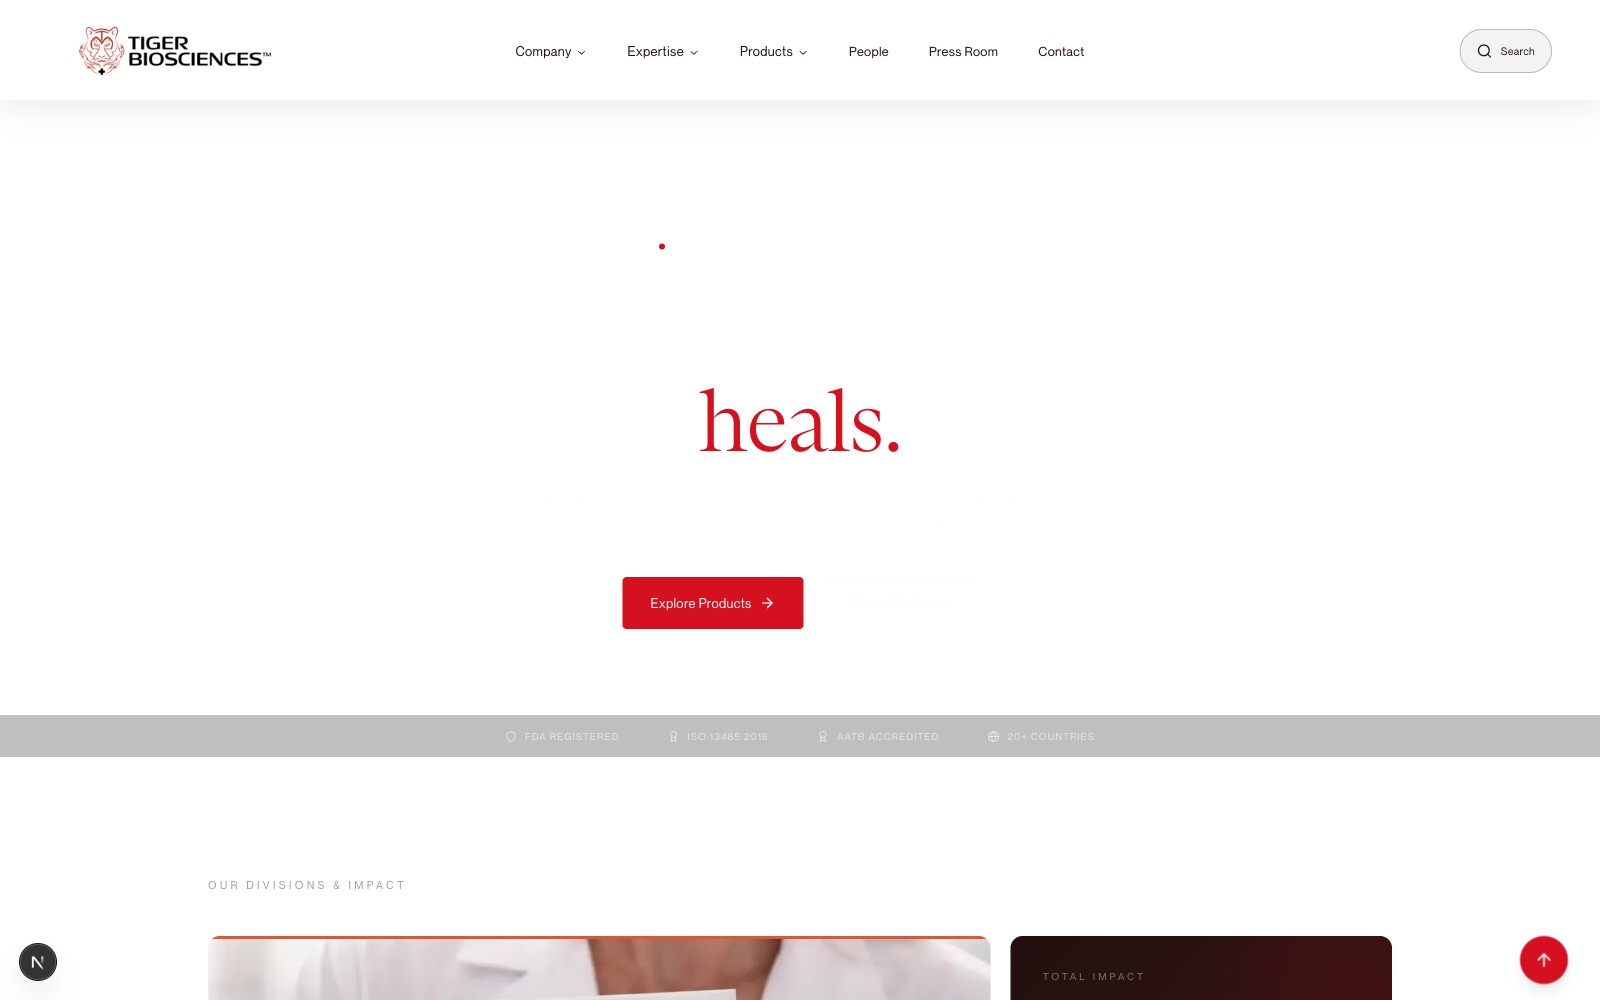
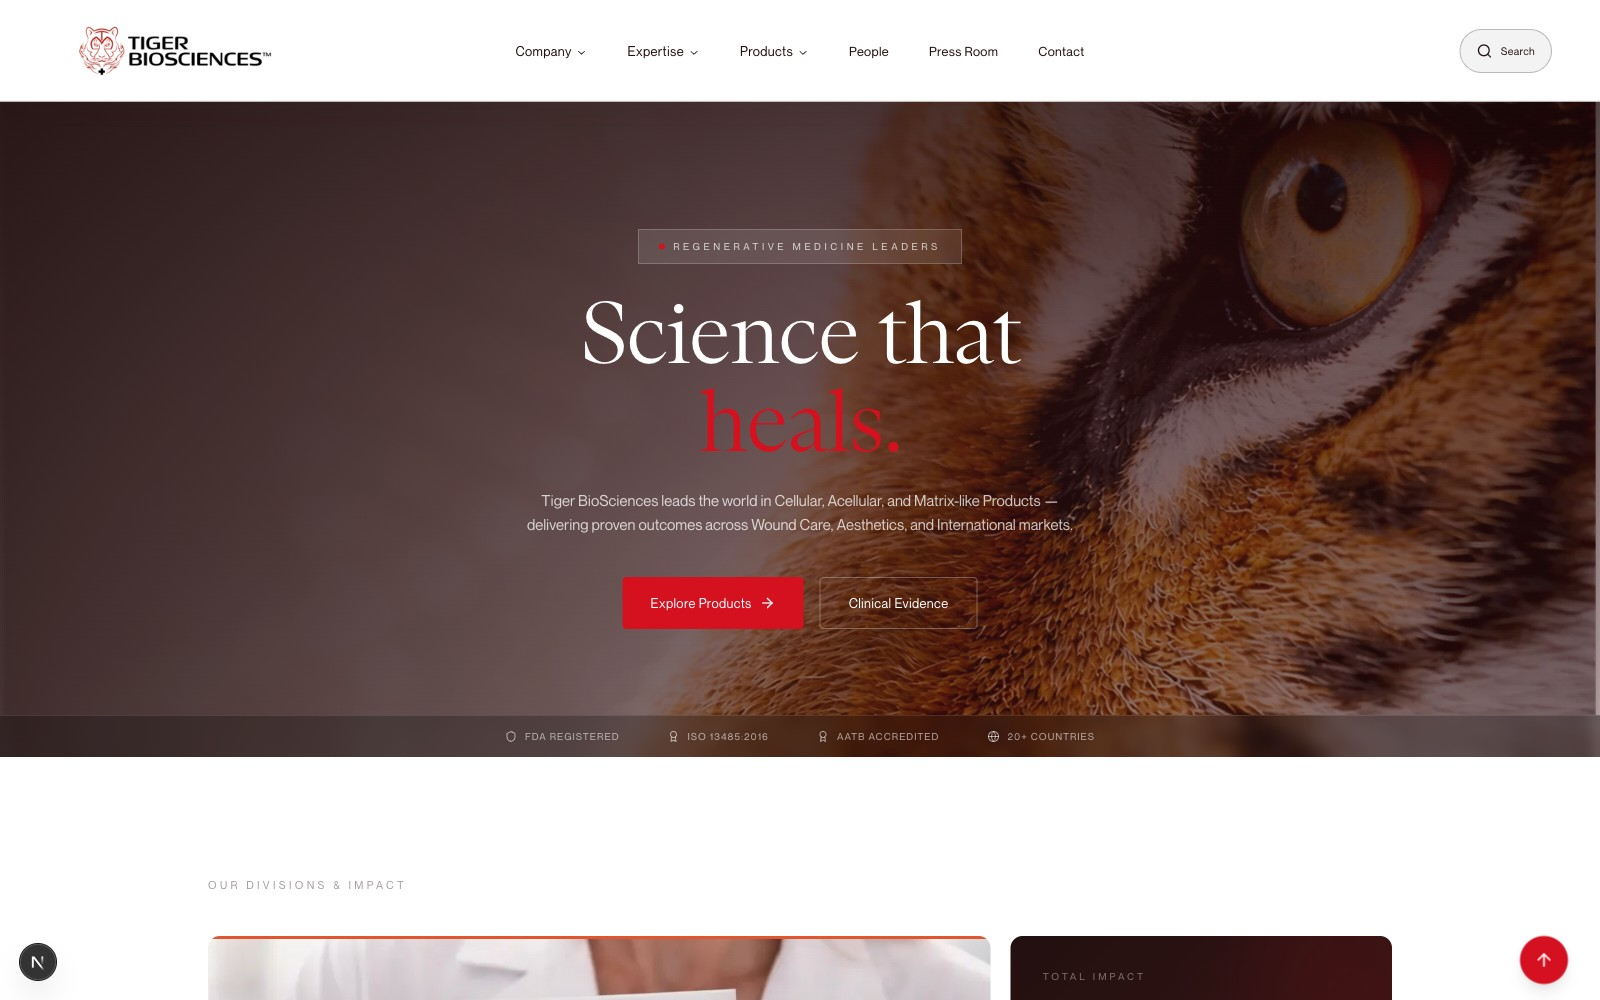
polish: elevate every variant's hero presence
V1 Cinematic — added tiger poster fallback + richer gradient vignette so the hero is cinematic even without video playback.
V3 Typography — tiger emerges from the right edge under a fade mask, anchoring the massive typography with a second focal point. Fixed -z-10 stacking bug with isolate.
V4 Product Grid — bumped watermark opacity and repositioned the crop so the tiger eye reads through the composition instead of vanishing.
V5 Dark Premium — trust bar is now scrollable and readable on mobile; video has a poster fallback for the no-autoplay case.
V6 Editorial — masthead tightened for mobile (wraps cleanly at 375px, no overflow).
V8 Storytelling — added "Chapter 01 · Six-Part Story" indicator and a faint tiger watermark so the sparse hero has atmosphere and structure.
V9 Hero Carousel — trust bar scrolls horizontally on mobile with all four badges visible.
V10 Bento Grid — darkened overlays so "Science that heals." reads crisp against the tiger; fixed -z-10 stacking with isolate.

Regenerated thumbnails for V1, V3, V4, V8, V10 to reflect the new hero treatments.

diff --git a/app/home-variant-1/page.tsx b/app/home-variant-1/page.tsx
@@ -76,7 +76,17 @@ export default function HomeVariant1() {
       {/* ═══════════════════════════════════════════════════════════
           HERO — Full-viewport cinematic video
       ═══════════════════════════════════════════════════════════ */}
-      <section className="relative min-h-[100dvh] w-full overflow-hidden flex items-center justify-center pt-[101px]">
+      <section className="relative min-h-[100dvh] w-full overflow-hidden flex items-center justify-center pt-[101px] bg-[#1a0b0b]">
+
+        {/* Poster image — plays when video is loading or blocked */}
+        <Image
+          src="/images/tiger-hero.png"
+          alt=""
+          fill
+          priority
+          className="absolute inset-0 w-full h-full object-cover"
+          style={{ objectPosition: "75% 35%" }}
+        />
 
         {/* Video background */}
         <video
@@ -84,6 +94,7 @@ export default function HomeVariant1() {
           loop
           muted
           playsInline
+          poster="/images/tiger-hero.png"
           className="absolute inset-0 w-full h-full object-cover"
           style={{ objectPosition: "center 20%" }}
         >
@@ -94,7 +105,7 @@ export default function HomeVariant1() {
         </video>
 
         {/* Gradient overlays — layered for cinematic depth */}
-        <div className="absolute inset-0 bg-gradient-to-b from-black/40 via-black/10 to-transparent pointer-events-none" />
+        <div className="absolute inset-0 bg-gradient-to-b from-black/55 via-black/25 to-black/40 pointer-events-none" />
         <div
           className="absolute bottom-0 left-0 right-0 h-[55%] pointer-events-none"
           style={{
@@ -102,7 +113,13 @@ export default function HomeVariant1() {
               "linear-gradient(to top, #ffffff 0%, rgba(239,237,234,0.9) 20%, rgba(239,237,234,0.5) 55%, transparent 100%)",
           }}
         />
-        <div className="absolute inset-0 bg-[#231010]/20 pointer-events-none" />
+        {/* Subtle vignette for cinematic focus */}
+        <div
+          className="absolute inset-0 pointer-events-none"
+          style={{
+            background: "radial-gradient(ellipse at center, transparent 30%, rgba(0,0,0,0.35) 100%)",
+          }}
+        />
 
         {/* Centered headline — staggered entrance */}
         <div className="relative z-10 text-center px-6 max-w-5xl mx-auto">

diff --git a/app/home-variant-10/page.tsx b/app/home-variant-10/page.tsx
@@ -59,7 +59,7 @@ export default function HomeVariant10() {
       {/* ═══════════════════════════════════════════════════════════════
           HERO — Short 60vh with centered text + background image
       ═══════════════════════════════════════════════════════════════ */}
-      <section className="relative flex items-center justify-center overflow-hidden min-h-[500px] md:min-h-[60vh] pt-[101px]">
+      <section className="relative isolate flex items-center justify-center overflow-hidden min-h-[500px] md:min-h-[60vh] pt-[101px]">
         {/* Subtle background image */}
         <div className="absolute inset-0 -z-10">
           <Image
@@ -67,11 +67,12 @@ export default function HomeVariant10() {
             alt="Tiger BioSciences hero"
             fill
             priority
-            className="object-cover object-center opacity-90"
+            className="object-cover object-[72%_30%]"
           />
-          {/* Layered overlays for depth */}
-          <div className="absolute inset-0 bg-gradient-to-b from-[#231010]/65 via-[#231010]/50 to-[#ffffff]/20" />
-          <div className="absolute inset-0 bg-gradient-to-r from-[#D5101F]/10 via-transparent to-transparent" />
+          {/* Layered overlays for depth — stronger top gradient for legibility */}
+          <div className="absolute inset-0 bg-gradient-to-b from-[#0e0606]/80 via-[#231010]/60 to-[#231010]/35" />
+          <div className="absolute inset-0 bg-gradient-to-r from-[#0e0606]/70 via-[#231010]/30 to-transparent" />
+          <div className="absolute inset-0 bg-[#D5101F]/[0.05]" />
         </div>
 
         <div className="relative z-10 mx-auto max-w-[896px] px-6 md:px-12 py-16 md:py-32 text-center">

diff --git a/app/home-variant-8/page.tsx b/app/home-variant-8/page.tsx
@@ -39,7 +39,24 @@ const fadeIn = {
 
 function HeroSection() {
   return (
-    <section className="relative min-h-[88vh] flex flex-col items-center justify-center text-center px-6 pt-[101px] bg-[#ffffff] overflow-hidden">
+    <section className="relative isolate min-h-[88vh] flex flex-col items-center justify-center text-center px-6 pt-[101px] bg-[#ffffff] overflow-hidden">
+      {/* Background watermark image — upper-right, subtle */}
+      <div className="pointer-events-none absolute inset-0 -z-10">
+        <Image
+          src="/images/tiger-hero-original.png"
+          alt=""
+          fill
+          className="object-cover object-[80%_20%] opacity-[0.10]"
+        />
+        <div
+          className="absolute inset-0"
+          style={{
+            background:
+              "radial-gradient(ellipse 70% 60% at 50% 55%, #ffffff 30%, rgba(255,255,255,0.8) 70%, rgba(255,255,255,0.3) 100%)",
+          }}
+        />
+      </div>
+
       {/* Background texture gradient */}
       <div
         className="pointer-events-none absolute inset-0"
@@ -56,6 +73,18 @@ function HeroSection() {
         transition={{ duration: 1.1, delay: 0.2, ease: [0.22, 1, 0.36, 1] }}
         className="absolute top-0 left-0 right-0 h-px bg-gradient-to-r from-transparent via-[#D5101F]/30 to-transparent origin-left"
       />
+
+      {/* Chapter indicator */}
+      <motion.div
+        initial={{ opacity: 0, y: -8 }}
+        animate={{ opacity: 1, y: 0 }}
+        transition={{ duration: 0.7, delay: 0.15 }}
+        className="flex items-center gap-3 mb-8"
+      >
+        <span className="text-[10px] uppercase tracking-[3px] text-[#D5101F] font-medium">Chapter 01</span>
+        <span className="w-8 h-[1px] bg-[#231010]/20" />
+        <span className="text-[10px] uppercase tracking-[3px] text-[#231010]/35">Six-Part Story</span>
+      </motion.div>
 
       <motion.span
         variants={fadeUp}

diff --git a/app/home-variant-5/page.tsx b/app/home-variant-5/page.tsx
@@ -100,12 +100,12 @@ export default function HomeVariant5() {
         transition={{ duration: 0.5, delay: 0.2 }}
         className="relative z-10 bg-[#231010]/80 backdrop-blur-[20px] border-b border-[#ffffff]/[0.06]"
       >
-        <div className="container mx-auto max-w-7xl px-6 py-2.5 flex items-center justify-center md:justify-between gap-6 flex-nowrap overflow-x-auto scrollbar-none md:flex-wrap">
+        <div className="container mx-auto max-w-7xl px-6 py-2.5 flex items-center gap-6 md:gap-8 overflow-x-auto scrollbar-none md:justify-center md:flex-wrap">
           {trustBadges.map((b) => {
             const Icon = b.icon;
             return (
-              <div key={b.label} className="flex items-center gap-2 text-[11px] text-[#ffffff]/40 font-light tracking-[0.3px]">
-                <Icon className="size-3.5 text-[#D5101F]/70" />
+              <div key={b.label} className="flex items-center gap-2 text-[11px] text-[#ffffff]/55 font-light tracking-[0.3px] whitespace-nowrap shrink-0">
+                <Icon className="size-3.5 text-[#D5101F]/80 shrink-0" />
                 {b.label}
               </div>
             );
@@ -118,12 +118,21 @@ export default function HomeVariant5() {
 
         {/* Video background */}
         <div className="absolute inset-0 -z-10">
+          {/* Poster fallback — shows if video blocks or loads slowly */}
+          <Image
+            src="/images/tiger-hero.png"
+            alt=""
+            fill
+            priority
+            className="object-cover object-[70%_40%]"
+          />
           <video
             autoPlay
             loop
             muted
             playsInline
             preload="auto"
+            poster="/images/tiger-hero.png"
             className="absolute inset-0 h-full w-full object-cover"
           >
             <source

diff --git a/app/home-variant-3/page.tsx b/app/home-variant-3/page.tsx
@@ -200,15 +200,29 @@ export default function HomeVariant3() {
       ═══════════════════════════════════════════════════════════ */}
       <section
         ref={heroRef}
-        className="relative min-h-[100dvh] flex flex-col justify-center px-6 md:px-16 xl:px-24 pt-[calc(101px+2rem)] md:pt-[calc(101px+4rem)] pb-24"
+        className="relative isolate min-h-[100dvh] flex flex-col justify-center px-6 md:px-16 xl:px-24 pt-[calc(101px+2rem)] md:pt-[calc(101px+4rem)] pb-24"
       >
-        {/* Subtle background image */}
-        <div className="absolute inset-0 -z-10 opacity-[0.04]">
+        {/* Subtle background image — reveal tiger on right third */}
+        <div className="absolute inset-0 -z-10">
           <Image
             src="/images/tiger-hero-original.png"
             alt=""
             fill
-            className="object-cover object-center"
+            className="object-cover object-[72%_30%]"
+          />
+          {/* Gradient mask — solid white on left two-thirds, tiger visible on right */}
+          <div
+            className="absolute inset-0"
+            style={{
+              background:
+                "linear-gradient(to right, #ffffff 0%, #ffffff 48%, rgba(255,255,255,0.85) 62%, rgba(255,255,255,0.45) 78%, rgba(255,255,255,0.2) 100%)",
+            }}
+          />
+          <div
+            className="absolute inset-0"
+            style={{
+              background: "linear-gradient(to top, #ffffff 5%, transparent 35%, transparent 75%, rgba(255,255,255,0.4) 100%)",
+            }}
           />
         </div>
 

diff --git a/app/home-variant-9/page.tsx b/app/home-variant-9/page.tsx
@@ -252,14 +252,14 @@ export default function HomeVariant9() {
           transition={{ duration: 0.7, delay: 0.2 }}
         >
           <div className="mx-auto max-w-7xl px-6 md:px-12">
-            <div className="flex flex-wrap items-center justify-center gap-4 md:gap-10 py-3">
+            <div className="flex items-center gap-6 md:gap-10 py-3 overflow-x-auto scrollbar-none md:justify-center md:flex-wrap">
               {[
                 { icon: Shield, text: "FDA Registered Facility" },
                 { icon: Award, text: "ISO 13485:2016 Certified" },
                 { icon: Award, text: "AATB Accredited" },
                 { icon: Heart, text: "500,000+ Grafts" },
-              ].map(({ icon: Icon, text }, idx) => (
-                <div key={text} className={`flex items-center gap-2 text-[11px] font-light tracking-widest text-white/70 uppercase${idx >= 2 ? " hidden md:flex" : ""}`}>
+              ].map(({ icon: Icon, text }) => (
+                <div key={text} className="flex items-center gap-2 text-[11px] font-light tracking-widest text-white/70 uppercase whitespace-nowrap shrink-0">
                   <Icon className="size-3.5 shrink-0" />
                   <span>{text}</span>
                 </div>

diff --git a/app/home-variant-4/page.tsx b/app/home-variant-4/page.tsx
@@ -120,13 +120,20 @@ export default function HomeVariant4() {
             alt=""
             fill
             priority
-            className="object-cover object-center opacity-[0.07]"
+            className="object-cover object-[70%_30%] opacity-[0.18]"
           />
-          {/* Gradient fade to cream at bottom */}
+          {/* Gradient mask — keep tiger visible on the right, fade to cream elsewhere */}
           <div
             className="absolute inset-0"
             style={{
-              background: "linear-gradient(to top, #ffffff 20%, transparent 70%)",
+              background:
+                "linear-gradient(to right, #ffffff 10%, rgba(255,255,255,0.82) 45%, rgba(255,255,255,0.35) 80%, transparent 100%)",
+            }}
+          />
+          <div
+            className="absolute inset-0"
+            style={{
+              background: "linear-gradient(to top, #ffffff 12%, transparent 60%)",
             }}
           />
         </div>
